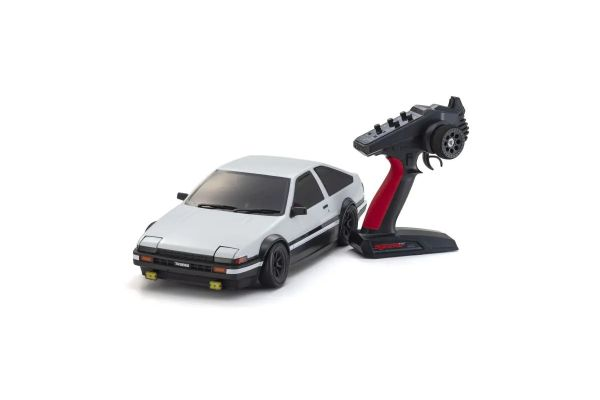
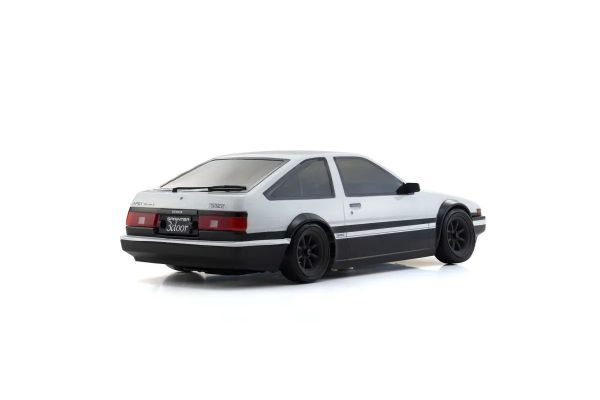
image corrections

Changed region(s): [[0.18, 0.24, 0.81, 0.78]]

diff --git a/personal-folder/styles/FZD2.css b/personal-folder/styles/FZD2.css
@@ -89,6 +89,7 @@ grid-template-columns: repeat(10, 1fr);
     width: 100%;
     grid-column: 1/6;
     grid-row: 19/22;
+    align-self: center;
 }
 
 #background-road{
@@ -107,19 +108,6 @@ grid-template-columns: repeat(10, 1fr);
     grid-column: 6/11;
     grid-row: 19/22;
     box-shadow: 5px 5px 10px #6f7364;
-}
-
-.road-msg a{
-    color: #BEC1C3;
-    text-decoration: none;
-}
-
-.road-msg a:hover{
-    color: #6D3D14;
-}
-
-.road{
-    align-self: center;
 }
 
 footer{

diff --git a/personal-folder/styles/Slash.css b/personal-folder/styles/Slash.css
@@ -89,6 +89,7 @@ grid-template-columns: repeat(10, 1fr);
     width: 100%;
     grid-column: 1/6;
     grid-row: 19/22;
+    align-self: center;
 }
 
 #background-dirt{
@@ -107,19 +108,6 @@ grid-template-columns: repeat(10, 1fr);
     grid-column: 6/11;
     grid-row: 19/22;
     box-shadow: 5px 5px 10px #6f7364;
-}
-
-.dirt-msg a{
-    color: #BEC1C3;
-    text-decoration: none;
-}
-
-.dirt-msg a:hover{
-    color: #6D3D14;
-}
-
-.dirt{
-    align-self: center;
 }
 
 footer{

diff --git a/personal-folder/FZD2.html b/personal-folder/FZD2.html
@@ -5,6 +5,7 @@
     <meta name="viewport" content="width=device-width, initial-scale=1.0">
     <title>FZD2</title>
     <link rel="stylesheet" href="styles/FZD2.css">
+	<script src="RBLRC.js" defer></script>
 </head>
     <body>
         <div id="content">
@@ -52,6 +53,5 @@
         	    </div>
     		</footer>
         </div>
-		<script src="RBLRC.js"></script>
     </body>
 </html>

diff --git a/personal-folder/RBLRC.html b/personal-folder/RBLRC.html
@@ -7,6 +7,7 @@
 		<meta name="viewport" content="width=device-width, initial-scale=1.0">
 		<title>RBLRC</title>
 		<link type="text/css" rel="stylesheet" href="styles/RBLRC.css" />
+		<script src="RBLRC.js" defer></script>
 	</head>
 	<body>
         <div id="content">
@@ -91,6 +92,5 @@
         		</div>
     		</footer>
         </div>
-		<script src="RBLRC.js"></script>
 	</body>
 </html>

diff --git a/personal-folder/Slash.html b/personal-folder/Slash.html
@@ -5,6 +5,7 @@
     <meta name="viewport" content="width=device-width, initial-scale=1.0">
     <title>Slash</title>
     <link rel="stylesheet" href="styles/Slash.css">
+	<script src="RBLRC.js" defer></script>
 </head>
     <body>
         <div id="content">
@@ -52,6 +53,5 @@
         	    </div>
     		</footer>
         </div>
-		<script src="RBLRC.js"></script>
     </body>
 </html>